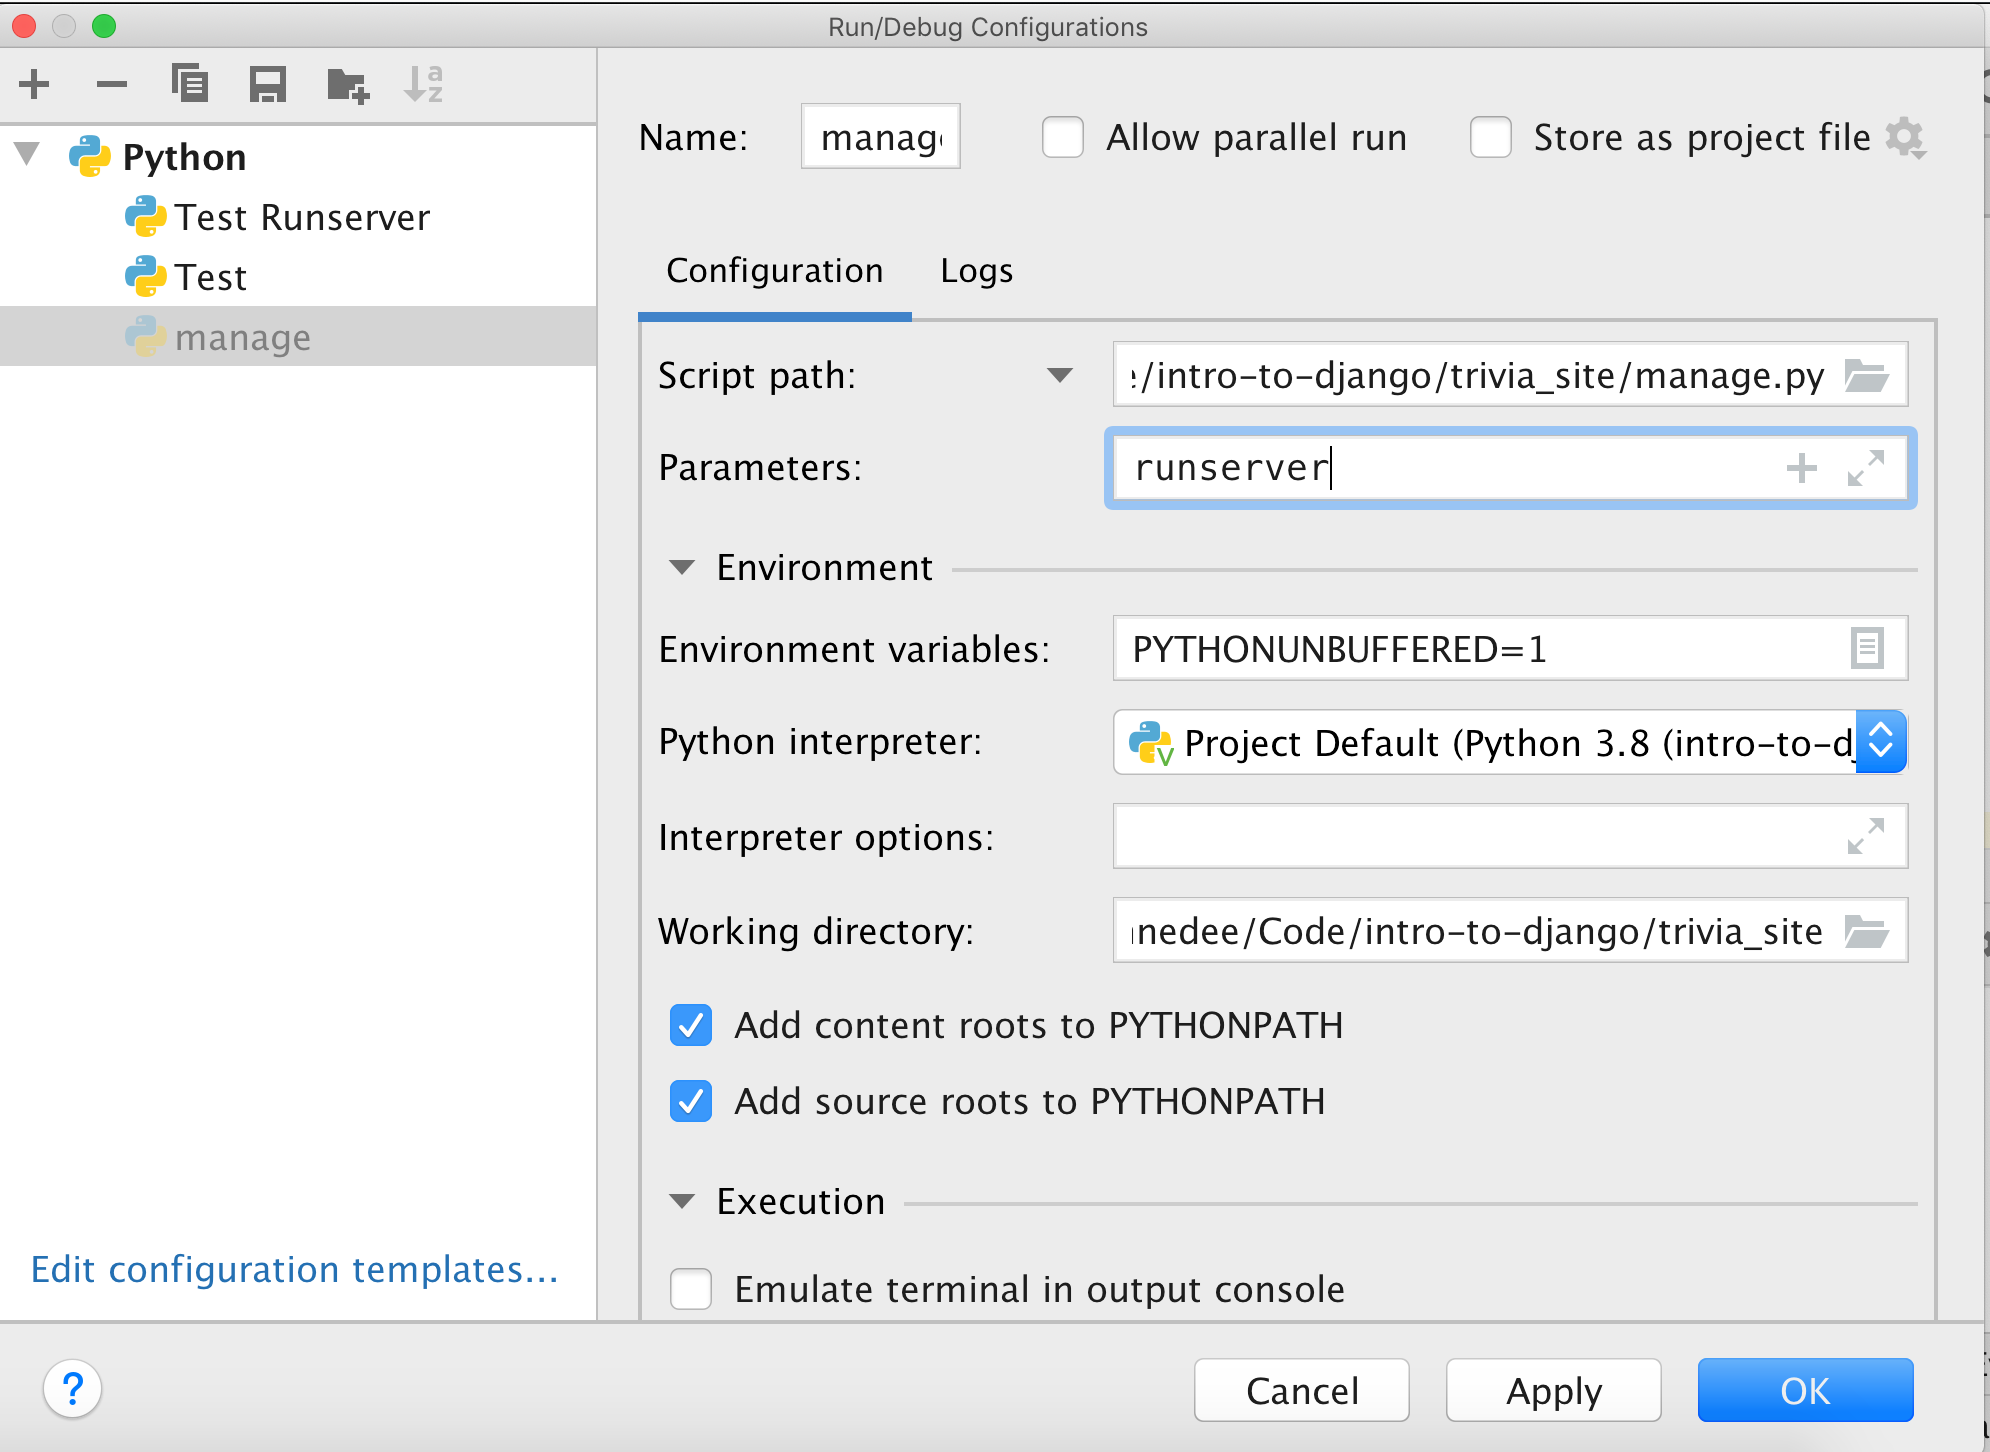
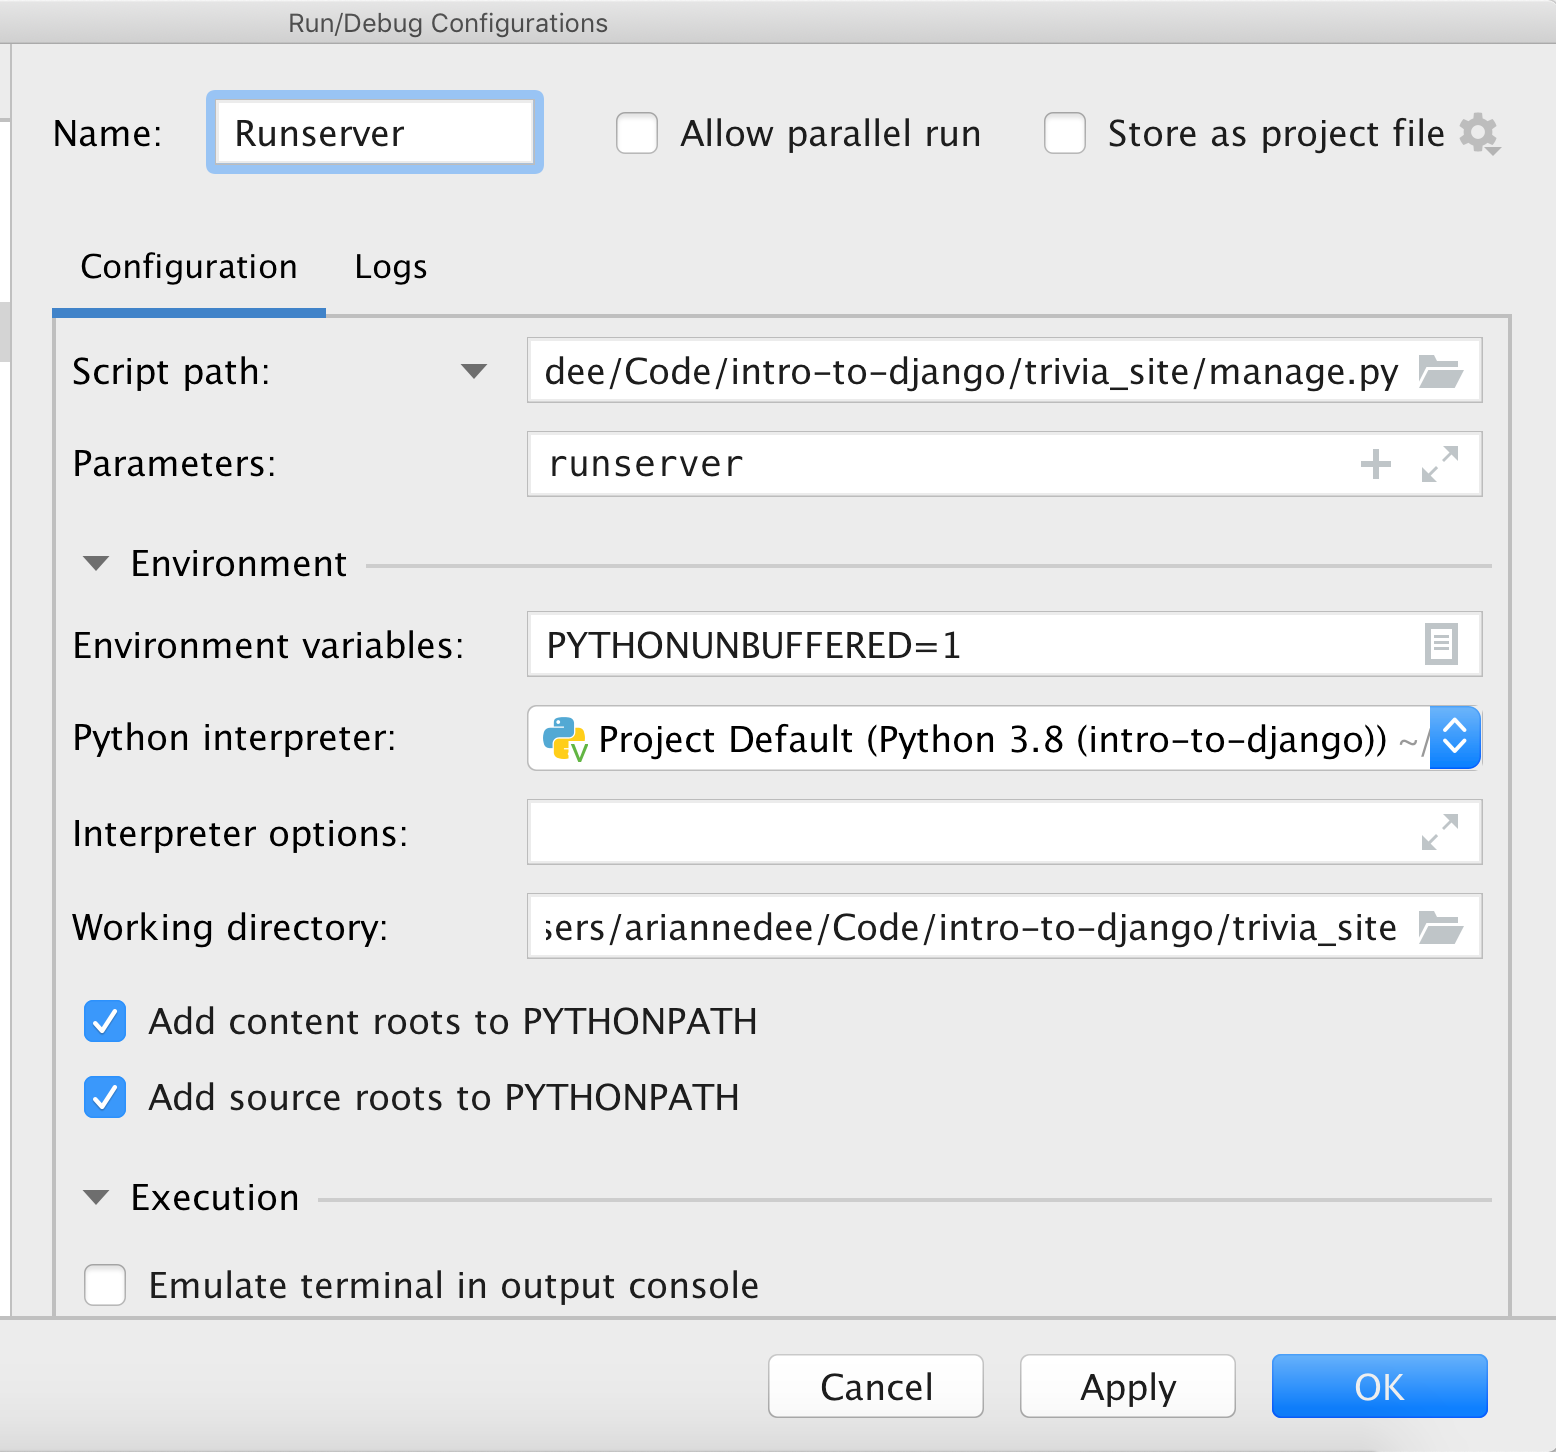
Update instructions for run configurations

diff --git a/docs/config/PyCharm_Com.md b/docs/config/PyCharm_Com.md
@@ -11,11 +11,17 @@ Follow the instructions here: [PyCharm virtual environment setup](PyCharm_venv.m
    
 2. In the top bar, click on the run-configuration dropdown and select **Edit Configurations...**
    
-<img width="60%" src="../img/com_runserver_2.png">
+<img width="40%" src="../img/com_runserver_2.png">
 
 3. In the **parameters** textbox, add "runserver"
    
+Also edit the name at the top, to "Runserver", so it's more descriptive
+
 <img width="60%" src="../img/com_runserver_3.png">
+
+4. Now you can select Runserver at the top and either Run or Debug
+   
+<img width="40%" src="../img/com_runserver_4.png">
 
 ## Run Django in the Python Console
 
